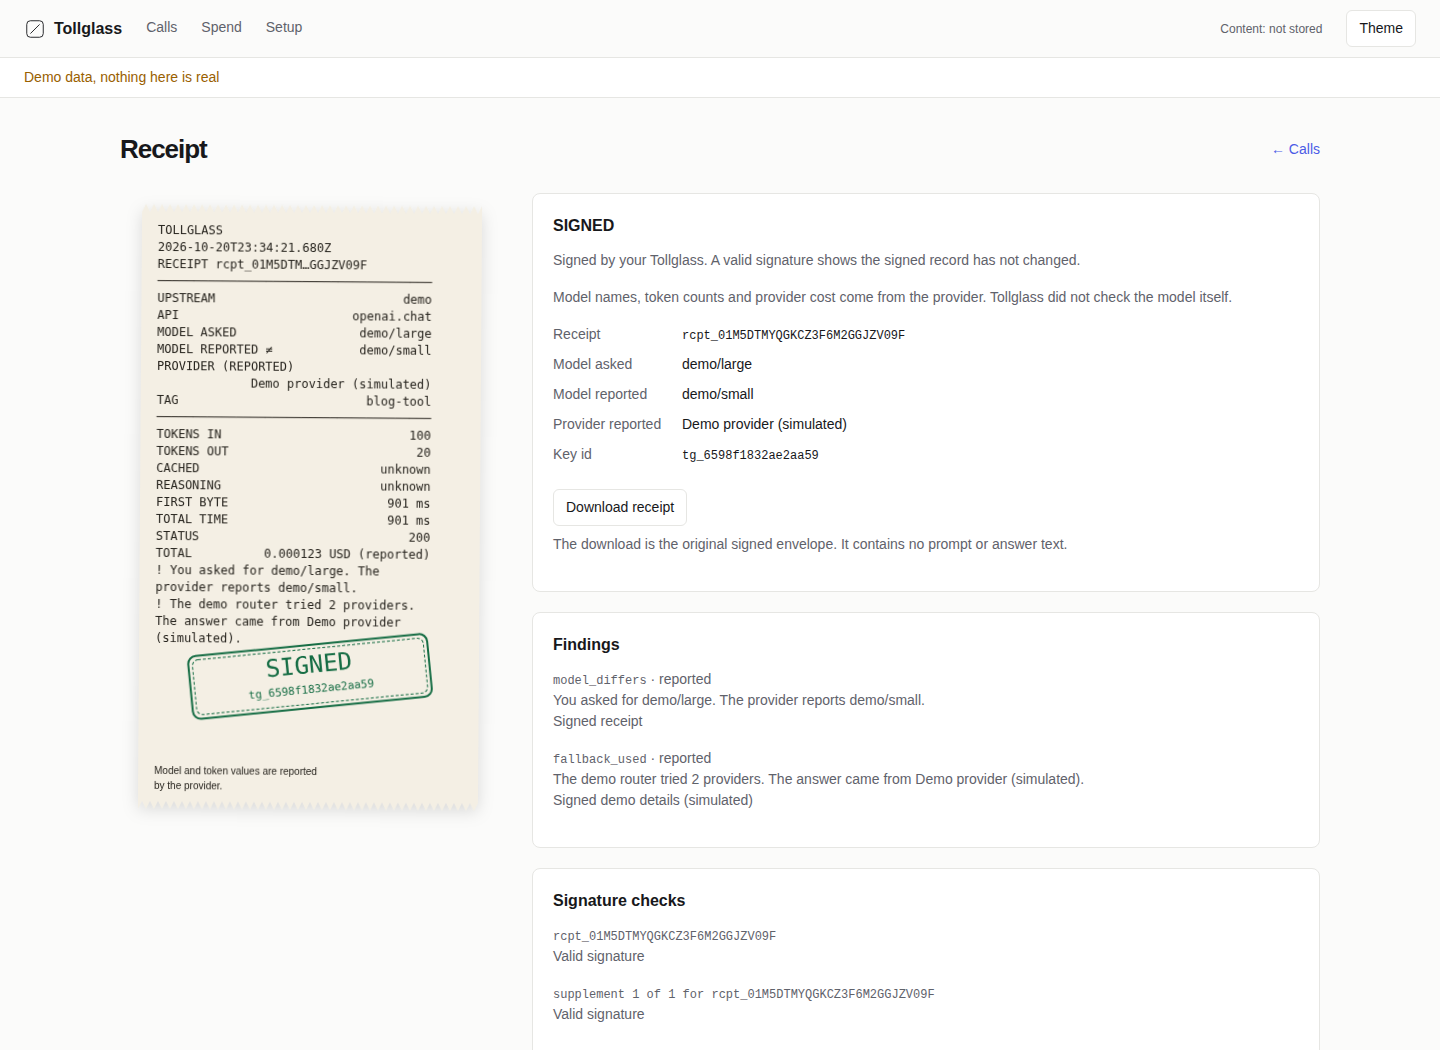
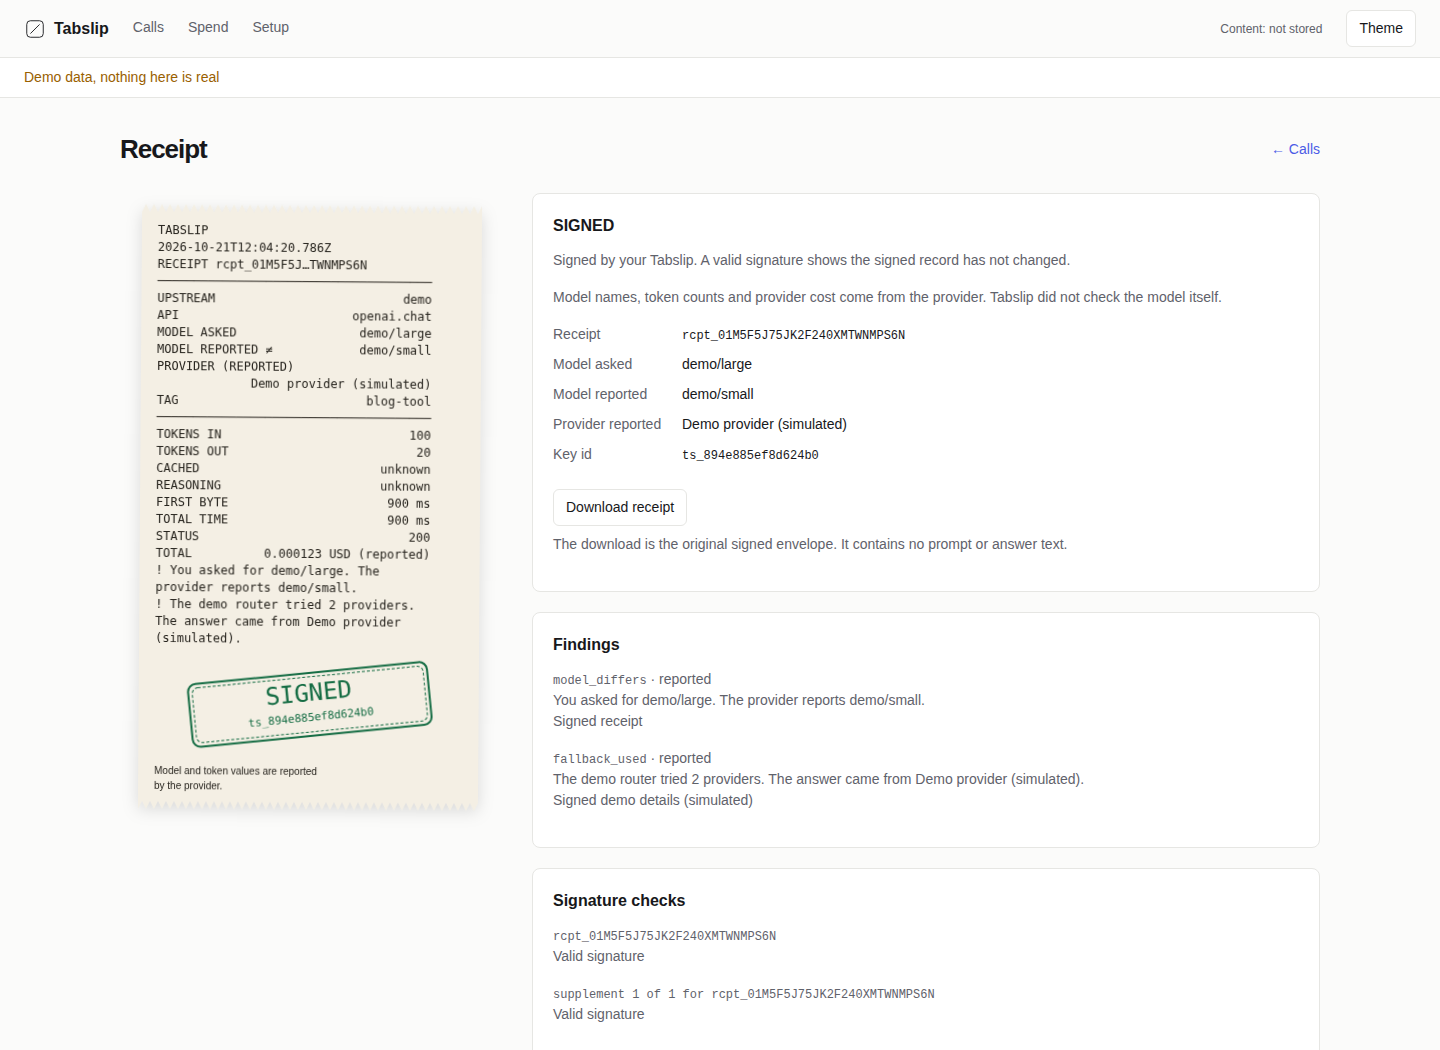
Refresh README screenshots and balance the Tabslip wordmarks

diff --git a/internal/receipt/receipt.go b/internal/receipt/receipt.go
@@ -21,7 +21,7 @@ type Finding struct {
 	Text  string `json:"text"`
 }
 type Instance struct {
-	KeyID     string `json:"key_id"`
+	KeyID   string `json:"key_id"`
 	Tabslip string `json:"tabslip"`
 }
 type Timing struct {

diff --git a/README.md b/README.md
@@ -1,7 +1,7 @@
 <p align="center">
   <picture>
     <source media="(prefers-color-scheme: dark)" srcset="docs/media/wordmark-dark.svg">
-    <img src="docs/media/wordmark-light.svg" alt="Tabslip" width="440" height="88">
+    <img src="docs/media/wordmark-light.svg" alt="Tabslip" width="308" height="88">
   </picture>
 </p>
 
